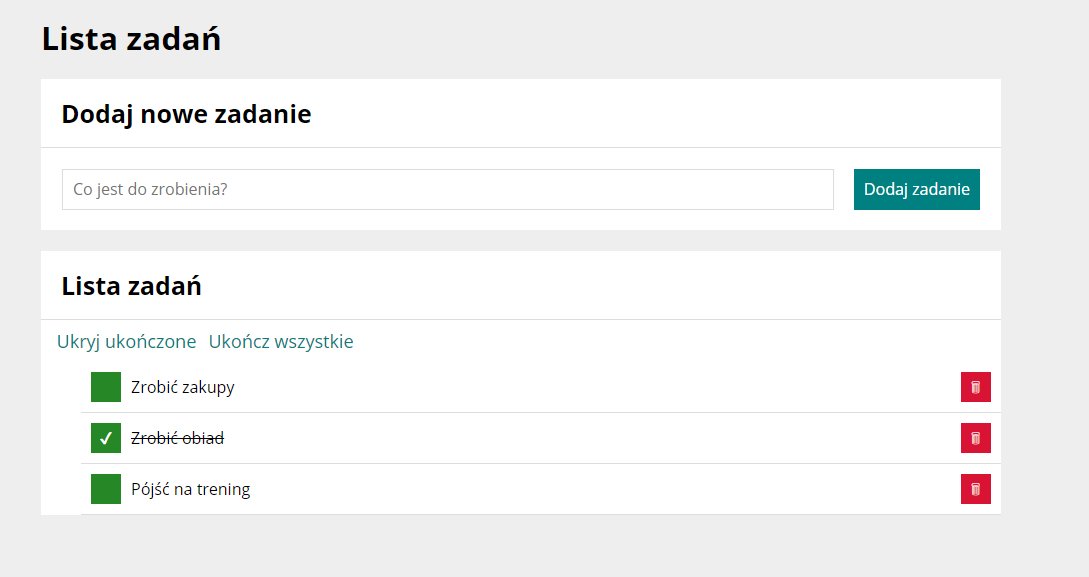
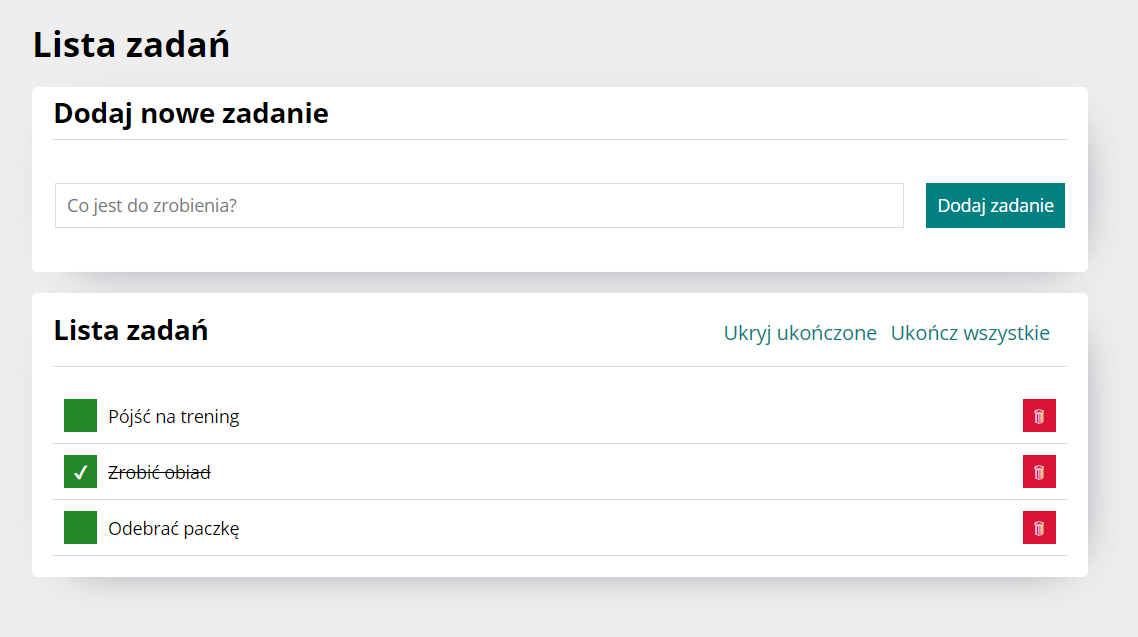
new look

diff --git a/src/Tasks/style.css b/src/Tasks/style.css
@@ -1,7 +1,8 @@
 .tasks {
     list-style: none;
-    padding: 28;
-    margin: 0;
+    margin: auto;
+    padding-left: 2%;
+    padding-right: 2%;
 }
 
 .tasks__item {
@@ -11,7 +12,7 @@
     grid-gap: 10px;
     padding: 10px;
     border-bottom: 1px solid #ddd;
-    word-break: break-word;
+  
 }
 
 .tasks__item--toggleDone {

diff --git a/src/index.css b/src/index.css
@@ -7,7 +7,7 @@ html {
 }
 
 body {
-  margin: 0 auto;
+  margin: auto;
   font-family: "Open Sans", sans-serif;
   background-color: #eee;
 }
